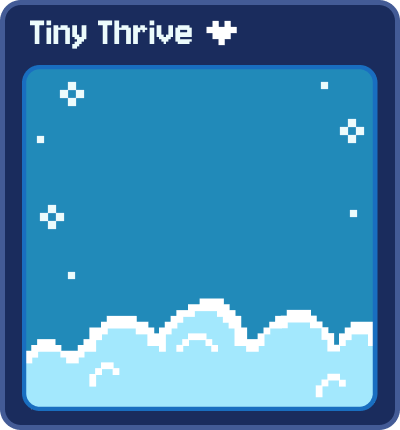
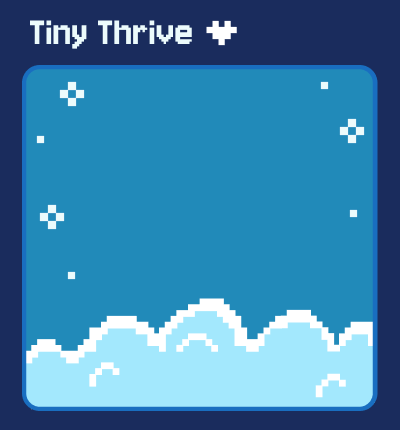
updated background assets to remove border: removed borer in figma and updated app to use revised images

Changed region(s): [[0.0, 0.0, 1.0, 1.0]]

diff --git a/src/App.tsx b/src/App.tsx
@@ -9,20 +9,6 @@ function App() {
   // set up background themes as an array 
   const themes = [
     {
-      name: "blue",
-      background: require("./assets/background-blue.png"),
-      timerColour: '#FFFFFF',
-      encouragementColour: '#A3E8FD',
-      study: require("./assets/study-blue.png"),
-      studyClicked: require("./assets/study-clicked-blue.png"),
-      break: require("./assets/break-blue.png"),
-      breakClicked: require("./assets/break-clicked-blue.png"),
-      play: require("./assets/play-blue.png"),
-      reset: require("./assets/reset-blue.png"),
-      close: require("./assets/close-blue.png"),
-      minimise: require("./assets/minimise-blue.png")
-    },
-    {
       name: "green",
       background: require("./assets/background-green.png"),
       timerColour: '#7BBBA0',
@@ -36,6 +22,20 @@ function App() {
       close: require("./assets/close-green.png"),
       minimise: require("./assets/minimise-green.png")
 
+    },
+    {
+      name: "blue",
+      background: require("./assets/background-blue.png"),
+      timerColour: '#FFFFFF',
+      encouragementColour: '#A3E8FD',
+      study: require("./assets/study-blue.png"),
+      studyClicked: require("./assets/study-clicked-blue.png"),
+      break: require("./assets/break-blue.png"),
+      breakClicked: require("./assets/break-clicked-blue.png"),
+      play: require("./assets/play-blue.png"),
+      reset: require("./assets/reset-blue.png"),
+      close: require("./assets/close-blue.png"),
+      minimise: require("./assets/minimise-blue.png")
     },
     {
       name: "mauve",
@@ -166,7 +166,7 @@ function App() {
 
   // meow sound played when timer is up 
   useEffect(() => {
-    if (timeLeft == 0 && isRunning) {
+    if (timeLeft === 0 && isRunning) {
       meowAudio.play().catch(err => {
         console.error("Audio play failed:", err);
       });

diff --git a/src/App.css b/src/App.css
@@ -14,7 +14,7 @@
   height: 430px;
   background-size: cover;
   background-position: center;
-  border-radius: 12px;
+  border-radius: 0px;
   box-sizing: border-box;
 
   /* center its content */
